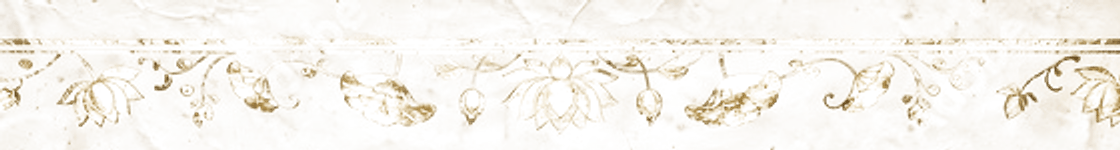
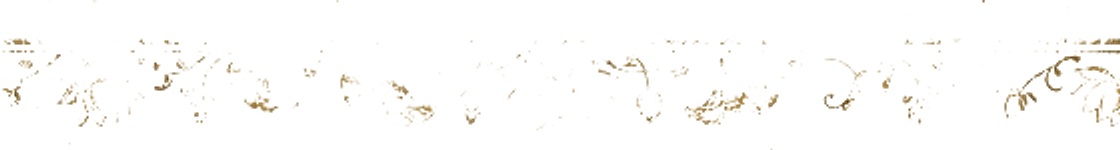
Refactor code structure for improved readability and maintainability

diff --git a/src/pages/HowItWorksPage.jsx b/src/pages/HowItWorksPage.jsx
@@ -742,7 +742,7 @@ export default function HowItWorksPage() {
             CONTROL SECTION
         ========================================== */}
 
-        <section className="relative overflow-hidden bg-gradient-to-b from-[#F9F5EC] via-[#F3ECE0] to-[#ECE2D2] py-20 sm:py-24 lg:py-28 border-y-2 border-[#C5A059]/70 shadow-[inset_0_20px_40px_rgba(100,50,20,0.04),inset_0_-20px_40px_rgba(100,50,20,0.04)]">
+        <section className="relative overflow-hidden bg-parchment-texture py-20 sm:py-24 lg:py-28 border-y-2 border-[#C5A059]/70 shadow-[inset_0_20px_40px_rgba(100,50,20,0.04),inset_0_-20px_40px_rgba(100,50,20,0.04)]">
           {/* Outer fine gold border line around entire section */}
           <div
             aria-hidden="true"
@@ -755,30 +755,30 @@ export default function HowItWorksPage() {
             className="pointer-events-none absolute inset-4 sm:inset-7 lg:inset-9 rounded-xl border border-[#C5A059]/30"
           />
 
-          {/* 4 Golden Lotus Corners - Authentic Indian Royal Design */}
+          {/* 4 Golden Lotus Corners - Authentic Indian Royal Design (Zero Paper, Pure Gold) */}
           <img
             src="/assets/lotus-corner-hd.png"
             alt=""
             aria-hidden="true"
-            className="pointer-events-none absolute left-0 top-0 w-36 sm:w-48 lg:w-60 select-none drop-shadow-[0_2px_4px_rgba(90,60,20,0.08)]"
+            className="pointer-events-none absolute left-0 top-0 w-36 sm:w-48 lg:w-60 select-none drop-shadow-[0_2px_4px_rgba(90,60,20,0.12)]"
           />
           <img
             src="/assets/lotus-corner-hd.png"
             alt=""
             aria-hidden="true"
-            className="pointer-events-none absolute right-0 top-0 w-36 sm:w-48 lg:w-60 -scale-x-100 select-none drop-shadow-[0_2px_4px_rgba(90,60,20,0.08)]"
+            className="pointer-events-none absolute right-0 top-0 w-36 sm:w-48 lg:w-60 -scale-x-100 select-none drop-shadow-[0_2px_4px_rgba(90,60,20,0.12)]"
           />
           <img
             src="/assets/lotus-corner-hd.png"
             alt=""
             aria-hidden="true"
-            className="pointer-events-none absolute bottom-0 left-0 w-36 sm:w-48 lg:w-60 -scale-y-100 select-none drop-shadow-[0_2px_4px_rgba(90,60,20,0.08)]"
+            className="pointer-events-none absolute bottom-0 left-0 w-36 sm:w-48 lg:w-60 -scale-y-100 select-none drop-shadow-[0_2px_4px_rgba(90,60,20,0.12)]"
           />
           <img
             src="/assets/lotus-corner-hd.png"
             alt=""
             aria-hidden="true"
-            className="pointer-events-none absolute bottom-0 right-0 w-36 sm:w-48 lg:w-60 -scale-x-100 -scale-y-100 select-none drop-shadow-[0_2px_4px_rgba(90,60,20,0.08)]"
+            className="pointer-events-none absolute bottom-0 right-0 w-36 sm:w-48 lg:w-60 -scale-x-100 -scale-y-100 select-none drop-shadow-[0_2px_4px_rgba(90,60,20,0.12)]"
           />
 
           {/* Top & Bottom Running Golden Lotus Garland Trims */}
@@ -792,7 +792,7 @@ export default function HowItWorksPage() {
           />
 
           {/* Centered Content Framed Inside the Golden Lotus Design */}
-          <div className="page-container relative z-10 px-4 sm:px-8 lg:px-12">
+          <div className="page-container relative z-10 px-6 sm:px-10 lg:px-16">
             <div
               data-hiw-reveal
               className="grid gap-12 lg:grid-cols-[0.8fr_1.2fr] lg:gap-20"

diff --git a/src/index.css b/src/index.css
@@ -141,12 +141,10 @@ a {
   background-position: center top;
 }
 
-.bg-parchment-lotus {
-  background-color: #f5eedf;
-  background-image:
-    radial-gradient(circle at center, rgba(250, 246, 238, 0.45) 0%, rgba(242, 232, 218, 0.20) 100%),
-    url('/assets/royal-parchment-lotus-frame.jpg');
-  background-size: cover;
+.bg-control-parchment-frame {
+  background-color: #f2ebd9;
+  background-image: url('/assets/royal-control-bg-consistent.jpg');
+  background-size: 100% 100%;
   background-position: center;
   background-repeat: no-repeat;
 }
